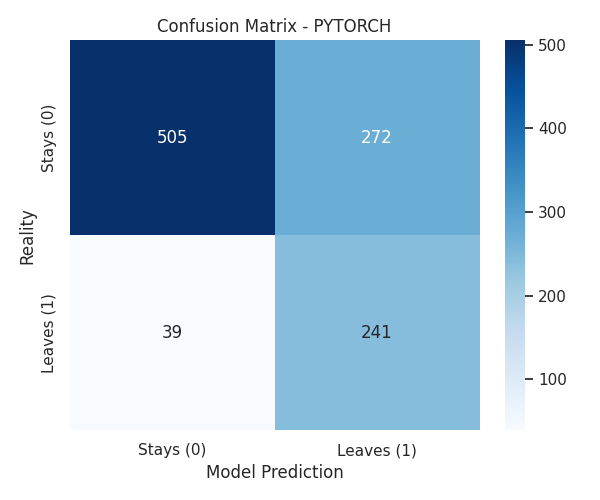
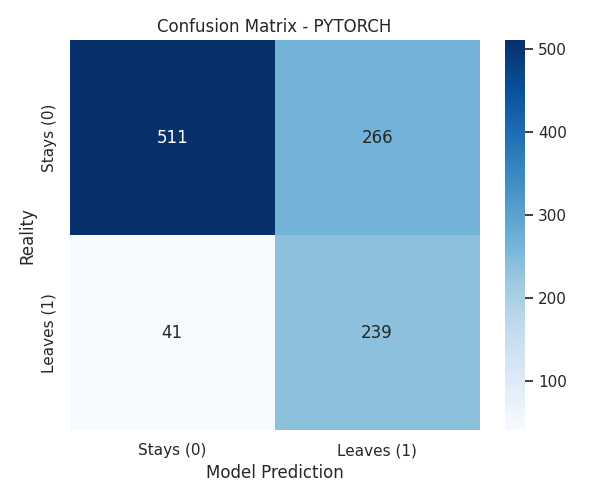
added focal loss class and more plots

diff --git a/src/core/trainer.py b/src/core/trainer.py
@@ -1,14 +1,22 @@
 # src/core/trainer.py
+import pandas as pd
 import torch
 import torch.nn as nn
+import torch.nn.functional as F
 import torch.optim as optim
-import pandas as pd
 from sklearn.metrics import accuracy_score, f1_score, recall_score, roc_auc_score
 
 # We import our plotting tools
-from src.utils.plotting import plot_confusion_matrix, plot_roc_curve, plot_xgboost_importance
+from src.utils.plotting import (
+    plot_confusion_matrix,
+    plot_roc_curve,
+    plot_xgboost_importance,
+)
 
-def train_pytorch(model, train_loader, val_loader, device, epochs, lr, pos_weight_val=1.0):
+
+def train_pytorch(
+    model, train_loader, val_loader, device, epochs, lr, pos_weight_val=1.0
+):
     print("\n--- Starting Neural Network Training (PyTorch) ---")
 
     # Added weight for the minority class (Churn)
@@ -32,12 +40,15 @@ def train_pytorch(model, train_loader, val_loader, device, epochs, lr, pos_weigh
             optimizer.step()
             train_loss += loss.item()
 
-    print(f"PyTorch training finished! Final loss: {train_loss/len(train_loader):.4f}")
+    print(
+        f"PyTorch training finished! Final loss: {train_loss / len(train_loader):.4f}"
+    )
     return model
+
 
 def evaluate_pytorch(model, test_loader, device, threshold=0.5):
     model.eval()
-    y_true, y_pred, y_probs = [],[],[]
+    y_true, y_pred, y_probs = [], [], []
 
     with torch.no_grad():
         for X_batch, y_batch in test_loader:
@@ -45,7 +56,7 @@ def evaluate_pytorch(model, test_loader, device, threshold=0.5):
             outputs = model(X_batch)
 
             probs = torch.sigmoid(outputs)
-            preds = (probs > threshold).float() # Dynamic classification threshold
+            preds = (probs > threshold).float()  # Dynamic classification threshold
 
             y_true.extend(y_batch.numpy())
             y_pred.extend(preds.cpu().numpy())
@@ -59,38 +70,61 @@ def evaluate_pytorch(model, test_loader, device, threshold=0.5):
         "Accuracy": accuracy_score(y_true, y_pred),
         "F1-Score": f1_score(y_true, y_pred),
         "Recall": recall_score(y_true, y_pred),
-        "ROC-AUC": roc_auc_score(y_true, y_probs)
+        "ROC-AUC": roc_auc_score(y_true, y_probs),
     }
+
 
 def train_and_eval_xgboost(xgb_model, xgb_data):
     print("\n--- Starting XGBoost Training ---")
 
-    features = xgb_data['feature_names']
-    X_train_df = pd.DataFrame(xgb_data['X_train'], columns=features)
-    X_val_df = pd.DataFrame(xgb_data['X_val'], columns=features)
-    X_test_df = pd.DataFrame(xgb_data['X_test'], columns=features)
+    features = xgb_data["feature_names"]
+    X_train_df = pd.DataFrame(xgb_data["X_train"], columns=features)
+    X_val_df = pd.DataFrame(xgb_data["X_val"], columns=features)
+    X_test_df = pd.DataFrame(xgb_data["X_test"], columns=features)
 
     xgb_model.fit(
-        X_train_df, xgb_data['y_train'],
-        eval_set=[(X_val_df, xgb_data['y_val'])],
-        verbose=False
+        X_train_df,
+        xgb_data["y_train"],
+        eval_set=[(X_val_df, xgb_data["y_val"])],
+        verbose=False,
     )
     print("XGBoost training finished!")
 
     # Predictions and Probabilities
-    preds = xgb_model.predict(xgb_data['X_test'])
-    probs = xgb_model.predict_proba(xgb_data['X_test'])[:, 1] # Get probability for Churn class (1)
+    preds = xgb_model.predict(xgb_data["X_test"])
+    probs = xgb_model.predict_proba(xgb_data["X_test"])[
+        :, 1
+    ]  # Get probability for Churn class (1)
 
     # Generate all plots for XGBoost
-    plot_confusion_matrix(xgb_data['y_test'], preds, model_name="xgboost")
-    plot_roc_curve(xgb_data['y_test'], probs, model_name="xgboost")
+    plot_confusion_matrix(xgb_data["y_test"], preds, model_name="xgboost")
+    plot_roc_curve(xgb_data["y_test"], probs, model_name="xgboost")
     plot_xgboost_importance(xgb_model)
 
-    print("Plots for models (ROC, Confusion Matrix, Feature Importance) have been saved in the 'plots/' folder.")
+    print(
+        "Plots for models (ROC, Confusion Matrix, Feature Importance) have been saved in the 'plots/' folder."
+    )
 
     return {
-        "Accuracy": accuracy_score(xgb_data['y_test'], preds),
-        "F1-Score": f1_score(xgb_data['y_test'], preds),
-        "Recall": recall_score(xgb_data['y_test'], preds),
-        "ROC-AUC": roc_auc_score(xgb_data['y_test'], probs)
+        "Accuracy": accuracy_score(xgb_data["y_test"], preds),
+        "F1-Score": f1_score(xgb_data["y_test"], preds),
+        "Recall": recall_score(xgb_data["y_test"], preds),
+        "ROC-AUC": roc_auc_score(xgb_data["y_test"], probs),
     }
+
+
+class FocalLoss(nn.Module):
+    def __init__(self, alpha=0.25, gamma=2.0):
+        super(FocalLoss, self).__init__()
+        self.alpha = alpha
+        self.gamma = gamma
+
+    def forward(self, inputs, targets):
+        BCE_loss = F.binary_cross_entropy_with_logits(inputs, targets, reduction="none")
+        pt = torch.exp(-BCE_loss)
+        F_loss = self.alpha * (1 - pt) ** self.gamma * BCE_loss
+        return torch.mean(F_loss)
+
+
+# Użycie w train_pytorch:
+# criterion = FocalLoss(alpha=0.73, gamma=2.0) # alpha = waga klasy (np. odsetek klasy dominującej)